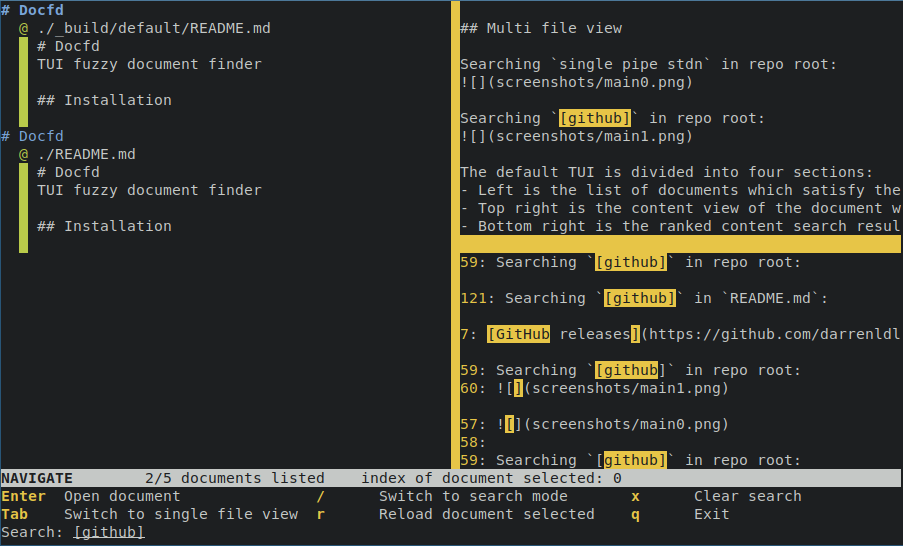
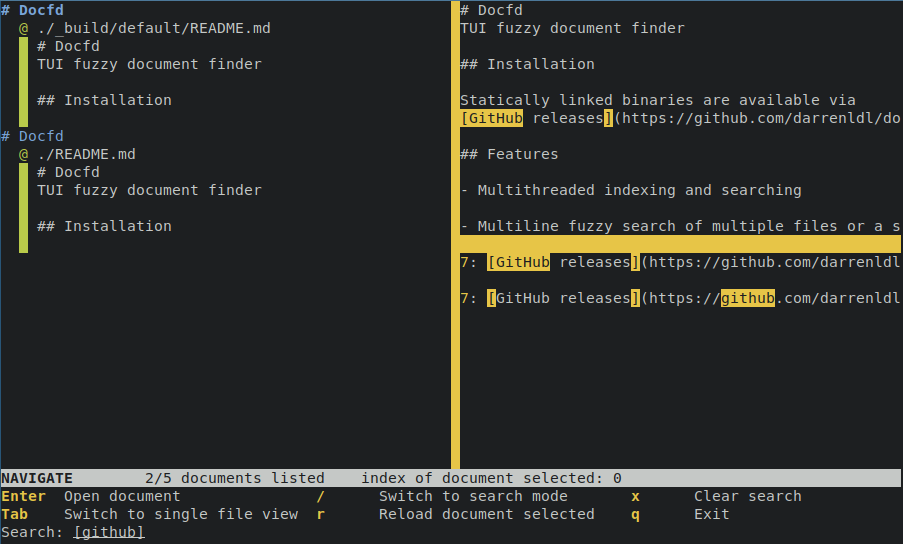
Updated screenshots and readme text

diff --git a/README.md b/README.md
@@ -53,10 +53,8 @@ Otherwise, Docfd uses **Multi file view**.
 
 ## Multi file view
 
-Searching `single pipe stdn` in repo root:
 ![](screenshots/main0.png)
 
-Searching `[github]` in repo root:
 ![](screenshots/main1.png)
 
 The default TUI is divided into four sections:
@@ -115,10 +113,8 @@ Docfd operates in modes, the initial mode is `Navigation` mode.
 If the specified path to Docfd is not a directory, then single file view
 is used.
 
-Searching `single pipe stdn` in `README.md`:
 ![](screenshots/single-file0.png)
 
-Searching `[github]` in `README.md`:
 ![](screenshots/single-file1.png)
 
 In this mode, the TUI is divided into only two sections:
